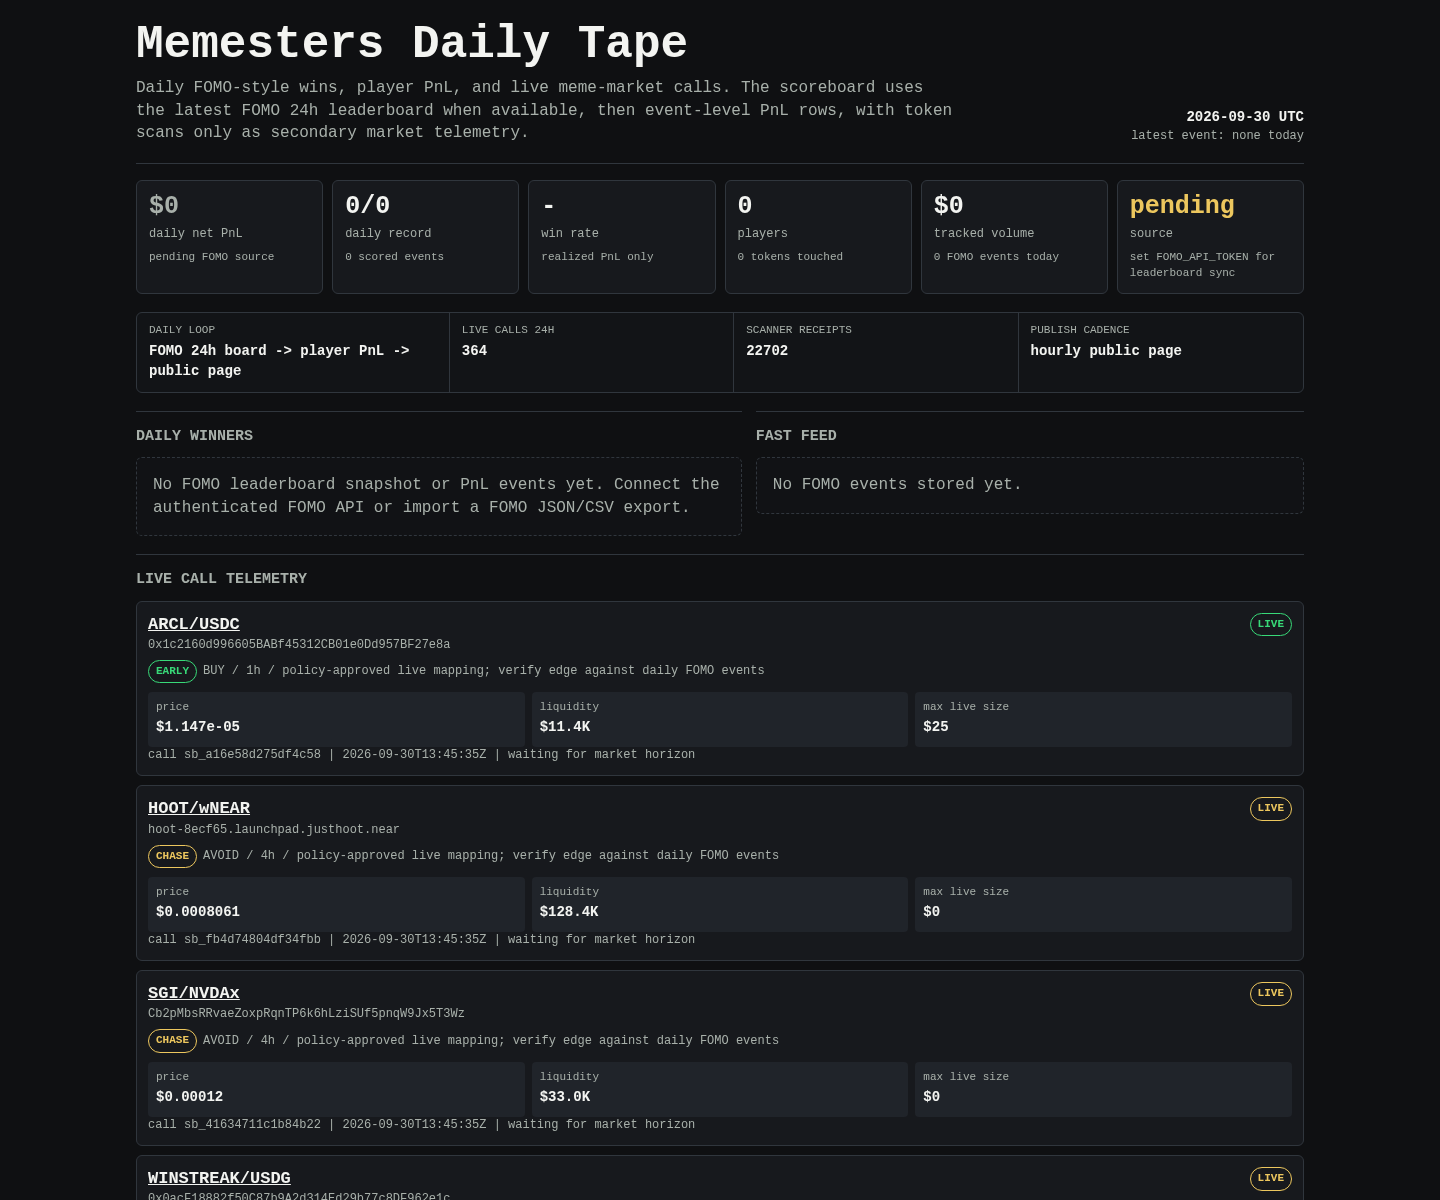
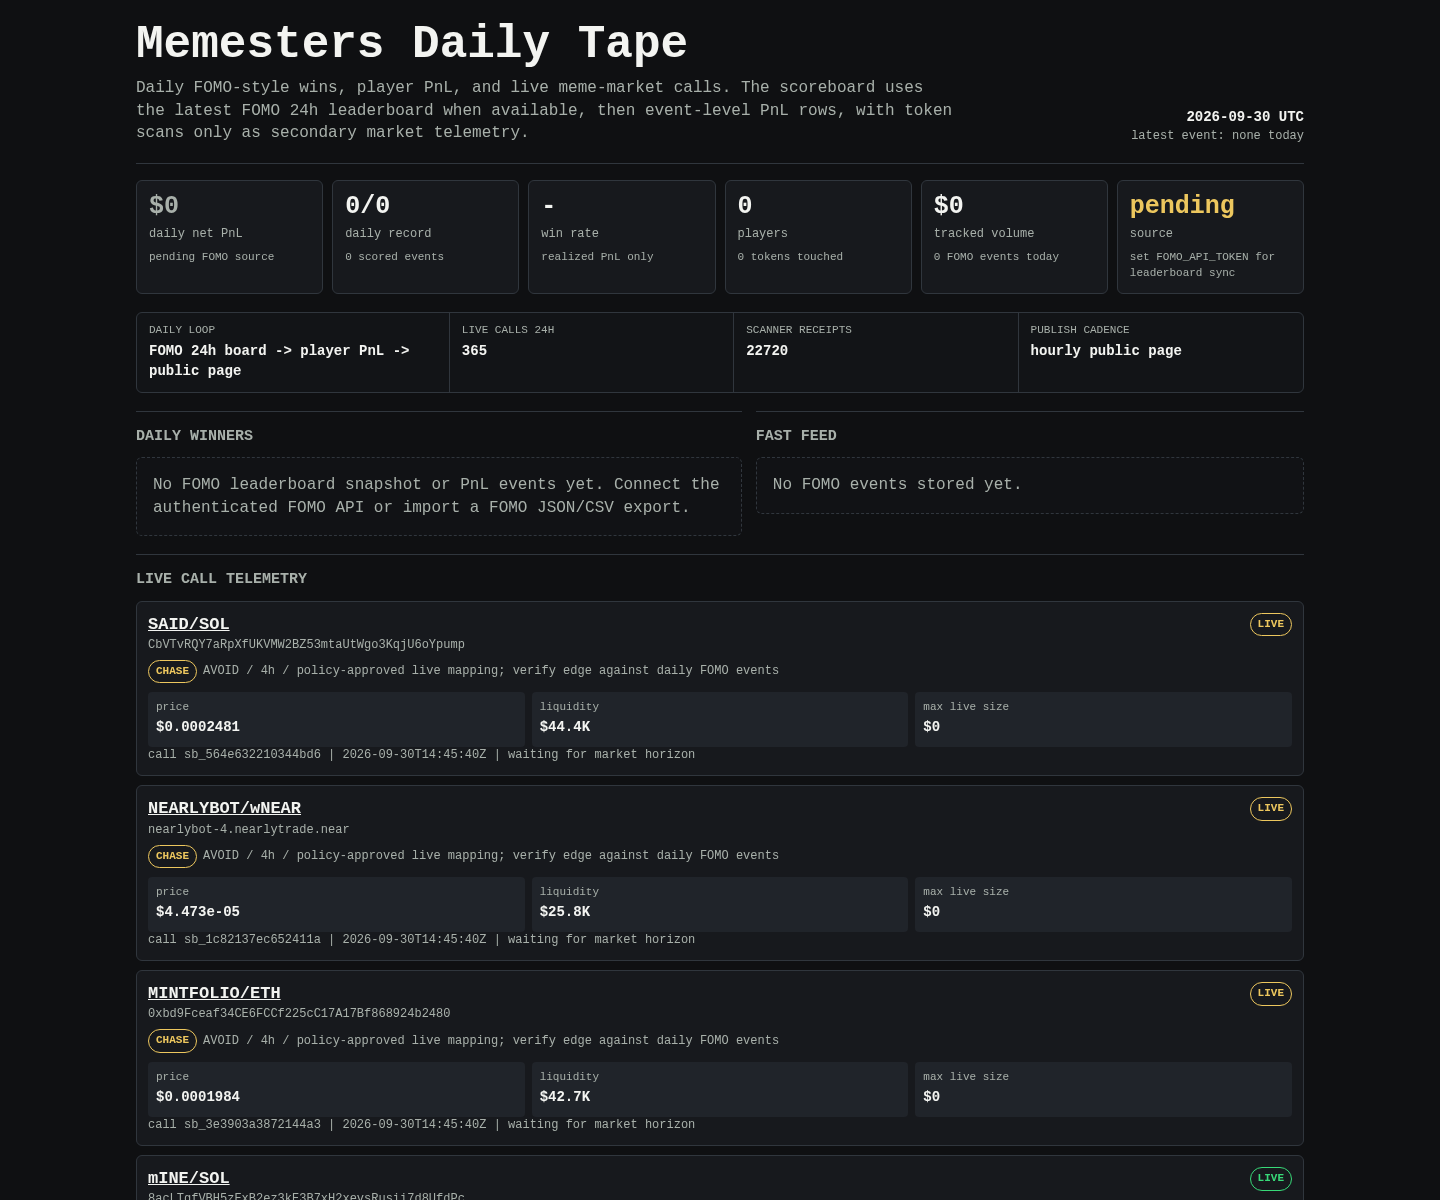
Update Memesters scoreboard

diff --git a/memesters/index.html b/memesters/index.html
@@ -149,8 +149,8 @@
 
     <div class="rail" aria-label="live operating loop">
       <div><span>daily loop</span><b>FOMO 24h board -> player PnL -> public page</b></div>
-      <div><span>live calls 24h</span><b>364</b></div>
-      <div><span>scanner receipts</span><b>22702</b></div>
+      <div><span>live calls 24h</span><b>365</b></div>
+      <div><span>scanner receipts</span><b>22720</b></div>
       <div><span>publish cadence</span><b>hourly public page</b></div>
     </div>
 
@@ -171,8 +171,71 @@
     <article class="receipt">
       <div class="receipt-head">
         <div>
-          <div class="pair"><a href="https://dexscreener.com/arc/0x6cac0774a957512f35de14dcf3d0363fb4abfaabc94cd7134bdf962e02bc2345">ARCL/USDC</a></div>
-          <div class="addr">0x1c2160d996605BABf45312CB01e0Dd957BF27e8a</div>
+          <div class="pair"><a href="https://dexscreener.com/solana/bbaqryh9xk8fuu66xh4c91w6jffzdlm5qqydss8olkes">SAID/SOL</a></div>
+          <div class="addr">CbVTvRQY7aRpXfUKVMW2BZ53mtaUtWgo3KqjU6oYpump</div>
+          <div class="addr policy-line">
+            <span class="badge chase">CHASE</span>
+            <span>AVOID / 4h / policy-approved live mapping; verify edge against daily FOMO events</span>
+          </div>
+        </div>
+        <span class="badge chase">LIVE</span>
+      </div>
+      <div class="receipt-grid">
+        <div class="kv"><span>price</span><b>$0.0002481</b></div>
+        <div class="kv"><span>liquidity</span><b>$44.4K</b></div>
+        <div class="kv"><span>max live size</span><b>$0</b></div>
+      </div>
+      <div class="outcomes">call sb_564e632210344bd6 | 2026-09-30T14:45:40Z | waiting for market horizon</div>
+    </article>
+    
+
+    <article class="receipt">
+      <div class="receipt-head">
+        <div>
+          <div class="pair"><a href="https://dexscreener.com/near/refv2-nearlybot-4.nearlytrade.near:wrap.near:10000">NEARLYBOT/wNEAR</a></div>
+          <div class="addr">nearlybot-4.nearlytrade.near</div>
+          <div class="addr policy-line">
+            <span class="badge chase">CHASE</span>
+            <span>AVOID / 4h / policy-approved live mapping; verify edge against daily FOMO events</span>
+          </div>
+        </div>
+        <span class="badge chase">LIVE</span>
+      </div>
+      <div class="receipt-grid">
+        <div class="kv"><span>price</span><b>$4.473e-05</b></div>
+        <div class="kv"><span>liquidity</span><b>$25.8K</b></div>
+        <div class="kv"><span>max live size</span><b>$0</b></div>
+      </div>
+      <div class="outcomes">call sb_1c82137ec652411a | 2026-09-30T14:45:40Z | waiting for market horizon</div>
+    </article>
+    
+
+    <article class="receipt">
+      <div class="receipt-head">
+        <div>
+          <div class="pair"><a href="https://dexscreener.com/robinhood/0xe01a372dde4a3fa344e22d84973e141409e2b7bcb33e8783e252339d7ef3f3f4">MINTFOLIO/ETH</a></div>
+          <div class="addr">0xbd9Fceaf34CE6FCCf225cC17A17Bf868924b2480</div>
+          <div class="addr policy-line">
+            <span class="badge chase">CHASE</span>
+            <span>AVOID / 4h / policy-approved live mapping; verify edge against daily FOMO events</span>
+          </div>
+        </div>
+        <span class="badge chase">LIVE</span>
+      </div>
+      <div class="receipt-grid">
+        <div class="kv"><span>price</span><b>$0.0001984</b></div>
+        <div class="kv"><span>liquidity</span><b>$42.7K</b></div>
+        <div class="kv"><span>max live size</span><b>$0</b></div>
+      </div>
+      <div class="outcomes">call sb_3e3903a3872144a3 | 2026-09-30T14:45:40Z | waiting for market horizon</div>
+    </article>
+    
+
+    <article class="receipt">
+      <div class="receipt-head">
+        <div>
+          <div class="pair"><a href="https://dexscreener.com/solana/bhvo33uf2rh7tfufwysgcmyz6mzkbsrp3qmmdz5vpfed">mINE/SOL</a></div>
+          <div class="addr">8acLTgfVBH5zExB2ez3kE3B7xH2xevsRusii7d8UfdPc</div>
           <div class="addr policy-line">
             <span class="badge early">EARLY</span>
             <span>BUY / 1h / policy-approved live mapping; verify edge against daily FOMO events</span>
@@ -181,82 +244,19 @@
         <span class="badge early">LIVE</span>
       </div>
       <div class="receipt-grid">
-        <div class="kv"><span>price</span><b>$1.147e-05</b></div>
-        <div class="kv"><span>liquidity</span><b>$11.4K</b></div>
-        <div class="kv"><span>max live size</span><b>$25</b></div>
+        <div class="kv"><span>price</span><b>$4.218e-05</b></div>
+        <div class="kv"><span>liquidity</span><b>$16.7K</b></div>
+        <div class="kv"><span>max live size</span><b>$155</b></div>
       </div>
-      <div class="outcomes">call sb_a16e58d275df4c58 | 2026-09-30T13:45:35Z | waiting for market horizon</div>
+      <div class="outcomes">call sb_1e07547486cb4c5e | 2026-09-30T14:45:40Z | waiting for market horizon</div>
     </article>
     
 
     <article class="receipt">
       <div class="receipt-head">
         <div>
-          <div class="pair"><a href="https://dexscreener.com/near/refv2-hoot-8ecf65.launchpad.justhoot.near:wrap.near:10000">HOOT/wNEAR</a></div>
-          <div class="addr">hoot-8ecf65.launchpad.justhoot.near</div>
-          <div class="addr policy-line">
-            <span class="badge chase">CHASE</span>
-            <span>AVOID / 4h / policy-approved live mapping; verify edge against daily FOMO events</span>
-          </div>
-        </div>
-        <span class="badge chase">LIVE</span>
-      </div>
-      <div class="receipt-grid">
-        <div class="kv"><span>price</span><b>$0.0008061</b></div>
-        <div class="kv"><span>liquidity</span><b>$128.4K</b></div>
-        <div class="kv"><span>max live size</span><b>$0</b></div>
-      </div>
-      <div class="outcomes">call sb_fb4d74804df34fbb | 2026-09-30T13:45:35Z | waiting for market horizon</div>
-    </article>
-    
-
-    <article class="receipt">
-      <div class="receipt-head">
-        <div>
-          <div class="pair"><a href="https://dexscreener.com/solana/h2zaayaecyck2h2ndyrzztoo8yhejyjldno4a9vz2rkj">SGI/NVDAx</a></div>
-          <div class="addr">Cb2pMbsRRvaeZoxpRqnTP6k6hLziSUf5pnqW9Jx5T3Wz</div>
-          <div class="addr policy-line">
-            <span class="badge chase">CHASE</span>
-            <span>AVOID / 4h / policy-approved live mapping; verify edge against daily FOMO events</span>
-          </div>
-        </div>
-        <span class="badge chase">LIVE</span>
-      </div>
-      <div class="receipt-grid">
-        <div class="kv"><span>price</span><b>$0.00012</b></div>
-        <div class="kv"><span>liquidity</span><b>$33.0K</b></div>
-        <div class="kv"><span>max live size</span><b>$0</b></div>
-      </div>
-      <div class="outcomes">call sb_41634711c1b84b22 | 2026-09-30T13:45:35Z | waiting for market horizon</div>
-    </article>
-    
-
-    <article class="receipt">
-      <div class="receipt-head">
-        <div>
-          <div class="pair"><a href="https://dexscreener.com/robinhood/0x92afaf129d8bed531009986305242a9a68e69c52847c3a569a451ed194101227">WINSTREAK/USDG</a></div>
-          <div class="addr">0x0acF18882f50C87b9A2d314Ed29b77c8DF962e1c</div>
-          <div class="addr policy-line">
-            <span class="badge chase">CHASE</span>
-            <span>AVOID / 4h / policy-approved live mapping; verify edge against daily FOMO events</span>
-          </div>
-        </div>
-        <span class="badge chase">LIVE</span>
-      </div>
-      <div class="receipt-grid">
-        <div class="kv"><span>price</span><b>$0.0001407</b></div>
-        <div class="kv"><span>liquidity</span><b>$30.5K</b></div>
-        <div class="kv"><span>max live size</span><b>$0</b></div>
-      </div>
-      <div class="outcomes">call sb_a2cb05ce2191450c | 2026-09-30T13:45:35Z | waiting for market horizon</div>
-    </article>
-    
-
-    <article class="receipt">
-      <div class="receipt-head">
-        <div>
-          <div class="pair"><a href="https://dexscreener.com/solana/44d97xwfr8xbghug66psedqbd82tsvntnslpm6agpfxz">SEALED/SOL</a></div>
-          <div class="addr">3Cnyn7GchZafTrBBGUajMNb1LecHtKKoEC6tmVXzpump</div>
+          <div class="pair"><a href="https://dexscreener.com/solana/hvzwxkaksprc6ea3qidqjy89dpynuuxfpfzq6ge8mboy">HERZOGIAN/SOL</a></div>
+          <div class="addr">5Sg1vv51KGCSDF2gBHgbNATCEXFjYtVhWgztNUwtgJYD</div>
           <div class="addr policy-line">
             <span class="badge rug-risk">RUG RISK</span>
             <span>AVOID / 4h / policy-approved live mapping; verify edge against daily FOMO events</span>
@@ -265,19 +265,19 @@
         <span class="badge rug-risk">LIVE</span>
       </div>
       <div class="receipt-grid">
-        <div class="kv"><span>price</span><b>$2.764e-06</b></div>
-        <div class="kv"><span>liquidity</span><b>$2.8K</b></div>
+        <div class="kv"><span>price</span><b>$5.311e-06</b></div>
+        <div class="kv"><span>liquidity</span><b>$4.6K</b></div>
         <div class="kv"><span>max live size</span><b>$0</b></div>
       </div>
-      <div class="outcomes">call sb_4ab08d3240eb4eea | 2026-09-30T13:30:36Z | waiting for market horizon</div>
+      <div class="outcomes">call sb_3de1b5f26cd04460 | 2026-09-30T14:30:36Z | <span class="positive">15m -28.9% / +$29 if followed</span></div>
     </article>
     
 
     <article class="receipt">
       <div class="receipt-head">
         <div>
-          <div class="pair"><a href="https://dexscreener.com/robinhood/0x0939dc8b57e43f7efe19dc071dd4b1e1fb120c99">DOG/GOO</a></div>
-          <div class="addr">0xfB4038D79ca3d2B3CB5dd2Fe66A192b77Ee36E4d</div>
+          <div class="pair"><a href="https://dexscreener.com/solana/alxhemddgzayjjvmqil8ecm8rkrnh1wvjvosj9kt8tve">SARKA/SOL</a></div>
+          <div class="addr">FU36e3gRF3oJUgef7Xn18JPUQRuN548S8PhL65rECaYV</div>
           <div class="addr policy-line">
             <span class="badge early">EARLY</span>
             <span>BUY / 1h / policy-approved live mapping; verify edge against daily FOMO events</span>
@@ -286,19 +286,19 @@
         <span class="badge early">LIVE</span>
       </div>
       <div class="receipt-grid">
-        <div class="kv"><span>price</span><b>$2.756e-05</b></div>
-        <div class="kv"><span>liquidity</span><b>$26.9K</b></div>
-        <div class="kv"><span>max live size</span><b>$25</b></div>
+        <div class="kv"><span>price</span><b>$6.845e-05</b></div>
+        <div class="kv"><span>liquidity</span><b>$21.9K</b></div>
+        <div class="kv"><span>max live size</span><b>$173</b></div>
       </div>
-      <div class="outcomes">call sb_626d65e70c1c4da1 | 2026-09-30T13:30:36Z | waiting for market horizon</div>
+      <div class="outcomes">call sb_fdb193edddd54b9f | 2026-09-30T14:30:36Z | <span class="positive">15m +22.6% / +$23 if followed</span></div>
     </article>
     
 
     <article class="receipt">
       <div class="receipt-head">
         <div>
-          <div class="pair"><a href="https://dexscreener.com/bsc/0xee74269de13d0f3c9e681512501cbe9cd6da46ce">Czar/NVDAB</a></div>
-          <div class="addr">0x9E03dB0Bd6570aB21759729B41503e5AE4307777</div>
+          <div class="pair"><a href="https://dexscreener.com/solana/286soatukqzj8qnpnvho9fhyczvlrj1cff3pgjq5m1gn">SICoin/SI</a></div>
+          <div class="addr">J2ghq3D6c5R24SxwYzLWNaU1dbhDNAWg6UqLWmW7SX58</div>
           <div class="addr policy-line">
             <span class="badge chase">CHASE</span>
             <span>AVOID / 4h / policy-approved live mapping; verify edge against daily FOMO events</span>
@@ -307,19 +307,19 @@
         <span class="badge chase">LIVE</span>
       </div>
       <div class="receipt-grid">
-        <div class="kv"><span>price</span><b>$5.224e-05</b></div>
-        <div class="kv"><span>liquidity</span><b>$22.0K</b></div>
+        <div class="kv"><span>price</span><b>$0.0001306</b></div>
+        <div class="kv"><span>liquidity</span><b>$32.9K</b></div>
         <div class="kv"><span>max live size</span><b>$0</b></div>
       </div>
-      <div class="outcomes">call sb_0dc81033d94848b0 | 2026-09-30T13:30:36Z | waiting for market horizon</div>
+      <div class="outcomes">call sb_8263c83fbca143ab | 2026-09-30T14:30:36Z | <span class="negative">15m +21.7% / -$22 if followed</span></div>
     </article>
     
 
     <article class="receipt">
       <div class="receipt-head">
         <div>
-          <div class="pair"><a href="https://dexscreener.com/solana/oghdtwqyp7vhltjkkkn5wa2bmq7dfgvplc3xquhkdro">/SOL</a></div>
-          <div class="addr">96u17tapbFpuob6QzF3hUwseJ92PZfheachP51Vxpump</div>
+          <div class="pair"><a href="https://dexscreener.com/solana/tvqcrl7npcw5sk2qwgltsnacib3e7gdtzijfvnzmvxi">DOTS/OPENAI</a></div>
+          <div class="addr">6hatGWdZbBFuLuicNXGRDStqkGN9mAyfZBTkusUrjLoM</div>
           <div class="addr policy-line">
             <span class="badge rug-risk">RUG RISK</span>
             <span>AVOID / 4h / policy-approved live mapping; verify edge against daily FOMO events</span>
@@ -328,19 +328,40 @@
         <span class="badge rug-risk">LIVE</span>
       </div>
       <div class="receipt-grid">
-        <div class="kv"><span>price</span><b>$2.186e-05</b></div>
-        <div class="kv"><span>liquidity</span><b>$11.7K</b></div>
+        <div class="kv"><span>price</span><b>$1.532e-05</b></div>
+        <div class="kv"><span>liquidity</span><b>$11.5K</b></div>
         <div class="kv"><span>max live size</span><b>$0</b></div>
       </div>
-      <div class="outcomes">call sb_828d218af03c4b2c | 2026-09-30T12:45:34Z | <span class="positive">15m -75.4% / +$75 if followed</span> | <span class="positive">1h -80.8% / +$81 if followed</span></div>
+      <div class="outcomes">call sb_8c95631fb4b94e9d | 2026-09-30T14:30:36Z | <span class="positive">15m -38.6% / +$39 if followed</span></div>
     </article>
     
 
     <article class="receipt">
       <div class="receipt-head">
         <div>
-          <div class="pair"><a href="https://dexscreener.com/bsc/0xbb25e70924ddef875ec70dfddddc9c13164dd1f3">驴来/QQQB</a></div>
-          <div class="addr">0x54463EeA795f0Ad7fCbdB7019375c18a58b97777</div>
+          <div class="pair"><a href="https://dexscreener.com/robinhood/0x1f0e5cfa4b4ae8d0d562084612d381fa7aac20da8ad0bde20384eba387bbd57d">WASH/ETH</a></div>
+          <div class="addr">0xCC741074Dd2624B697C9AaBA736c145De97a2b5F</div>
+          <div class="addr policy-line">
+            <span class="badge rug-risk">RUG RISK</span>
+            <span>AVOID / 4h / policy-approved live mapping; verify edge against daily FOMO events</span>
+          </div>
+        </div>
+        <span class="badge rug-risk">LIVE</span>
+      </div>
+      <div class="receipt-grid">
+        <div class="kv"><span>price</span><b>$8.785e-06</b></div>
+        <div class="kv"><span>liquidity</span><b>$9.0K</b></div>
+        <div class="kv"><span>max live size</span><b>$0</b></div>
+      </div>
+      <div class="outcomes">call sb_2da9f73615e84275 | 2026-09-30T14:30:36Z | <span class="positive">15m -50.2% / +$50 if followed</span></div>
+    </article>
+    
+
+    <article class="receipt">
+      <div class="receipt-head">
+        <div>
+          <div class="pair"><a href="https://dexscreener.com/robinhood/0x25e0a204e3b7cb173f6201b74244d623f962d10c3a13a67e54a455b04cece05b">SKIT/WETH</a></div>
+          <div class="addr">0x4d10aCCB383Ab2E1E138A88CE385EDa7Ded9C55f</div>
           <div class="addr policy-line">
             <span class="badge chase">CHASE</span>
             <span>AVOID / 4h / policy-approved live mapping; verify edge against daily FOMO events</span>
@@ -349,32 +370,11 @@
         <span class="badge chase">LIVE</span>
       </div>
       <div class="receipt-grid">
-        <div class="kv"><span>price</span><b>$7.043e-05</b></div>
-        <div class="kv"><span>liquidity</span><b>$27.2K</b></div>
+        <div class="kv"><span>price</span><b>$6.458e-06</b></div>
+        <div class="kv"><span>liquidity</span><b>$257.1K</b></div>
         <div class="kv"><span>max live size</span><b>$0</b></div>
       </div>
-      <div class="outcomes">call sb_34a564fd48ce4d99 | 2026-09-30T12:45:34Z | <span class="negative">15m +5.4% / -$5 if followed</span> | <span class="positive">1h -6.5% / +$7 if followed</span></div>
-    </article>
-    
-
-    <article class="receipt">
-      <div class="receipt-head">
-        <div>
-          <div class="pair"><a href="https://dexscreener.com/solana/4xbbepdybpz2pn5wuyte271c6rt1vvloshwvqw3qzhxh">CROOK/NVDAx</a></div>
-          <div class="addr">82MP84Vjfxd21VHup3jjfJFcsr8SAji9MHy7VHCeSTNK</div>
-          <div class="addr policy-line">
-            <span class="badge chase">CHASE</span>
-            <span>AVOID / 4h / policy-approved live mapping; verify edge against daily FOMO events</span>
-          </div>
-        </div>
-        <span class="badge chase">LIVE</span>
-      </div>
-      <div class="receipt-grid">
-        <div class="kv"><span>price</span><b>$0.0001116</b></div>
-        <div class="kv"><span>liquidity</span><b>$31.1K</b></div>
-        <div class="kv"><span>max live size</span><b>$0</b></div>
-      </div>
-      <div class="outcomes">call sb_a59a5d218598457f | 2026-09-30T12:45:34Z | <span class="negative">15m +291.9% / -$292 if followed</span> | <span class="negative">1h +105.1% / -$105 if followed</span></div>
+      <div class="outcomes">call sb_5604267a79a84944 | 2026-09-30T14:30:36Z | <span class="negative">15m +13.2% / -$13 if followed</span></div>
     </article>
     
     </section>
